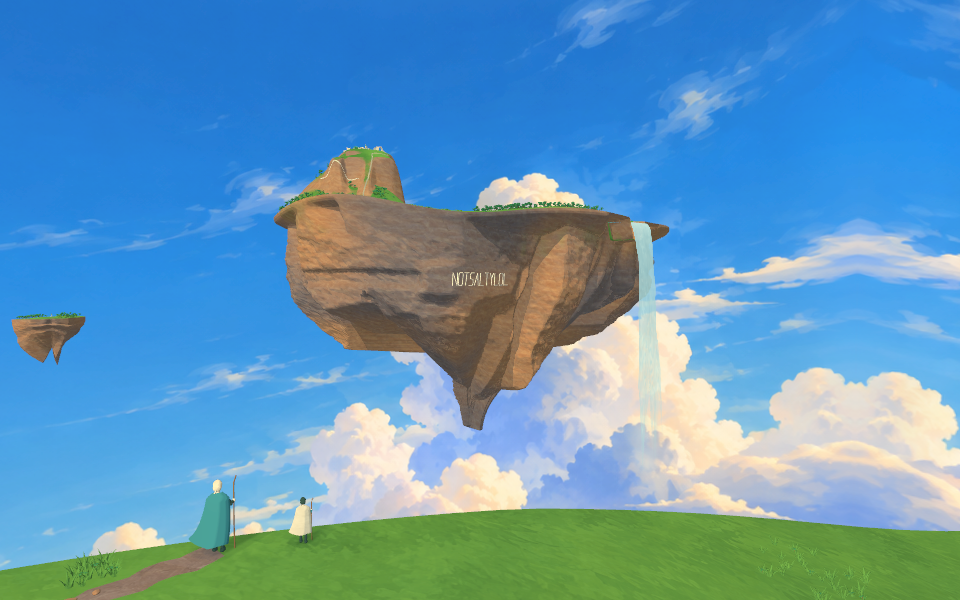
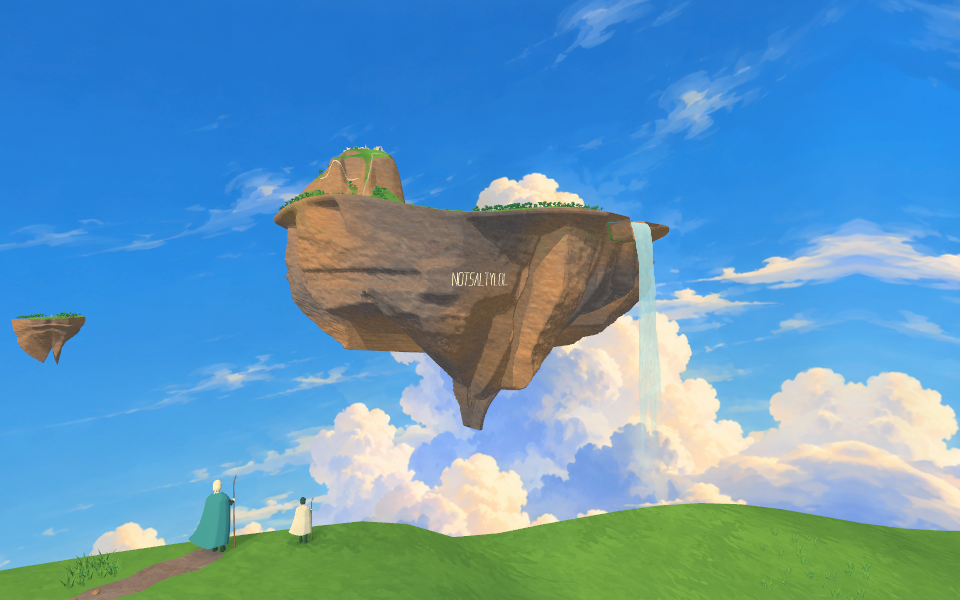
Sync the foreground meadow fold from source bdf9567

Changed region(s): [[0.375, 0.84, 0.9688, 0.9]]

diff --git a/public/assets/sky-castle-lookout.js b/public/assets/sky-castle-lookout.js
@@ -36,7 +36,14 @@ export function buildLookoutTerrain(THREE, materials, {scale=10}={}) {
   function height(x,z){
     const u=x/scale,v=z/scale;
     const hill=(cx,cz,sx,sz)=>Math.exp(-(((u-cx)/sx)**2+((v-cz)/sz)**2));
-    return scale*(.24+.77*hill(-4,-.3,3.8,2.6)+.37*hill(3,-1.3,2.5,1.9)
+    // A shallow oblique hollow and unequal turf shoulders break the open
+    // viewing lawn into connected planes. The travelers keep a quiet footing.
+    const du=u-1.48,dv=v+.55-.20/scale,right=du*.777+dv*.629,forward=du*.629-dv*.777;
+    const across=forward-(.15-.16*right);
+    const hollow=-.055*Math.exp(-Math.pow((right-.65)/.60,4)-Math.pow(across/.23,2));
+    const shoulder=.031*Math.exp(-Math.pow((right-.83)/.47,2)-Math.pow((across-.27)/.23,2));
+    const clearingRelief=(hollow+shoulder)*smooth(.19,.34,Math.hypot(du,dv));
+    return scale*(clearingRelief+.24+.77*hill(-4,-.3,3.8,2.6)+.37*hill(3,-1.3,2.5,1.9)
       -.20*hill(.1,.4,1.6,1.6)+.025*u-.036*v
       +.12*hill(1.4,-.45,.9,.8)-.13*Math.max(0,u-1.2)
       +.048*coherentNoise3D(u*.8,17.3,v*.8));
